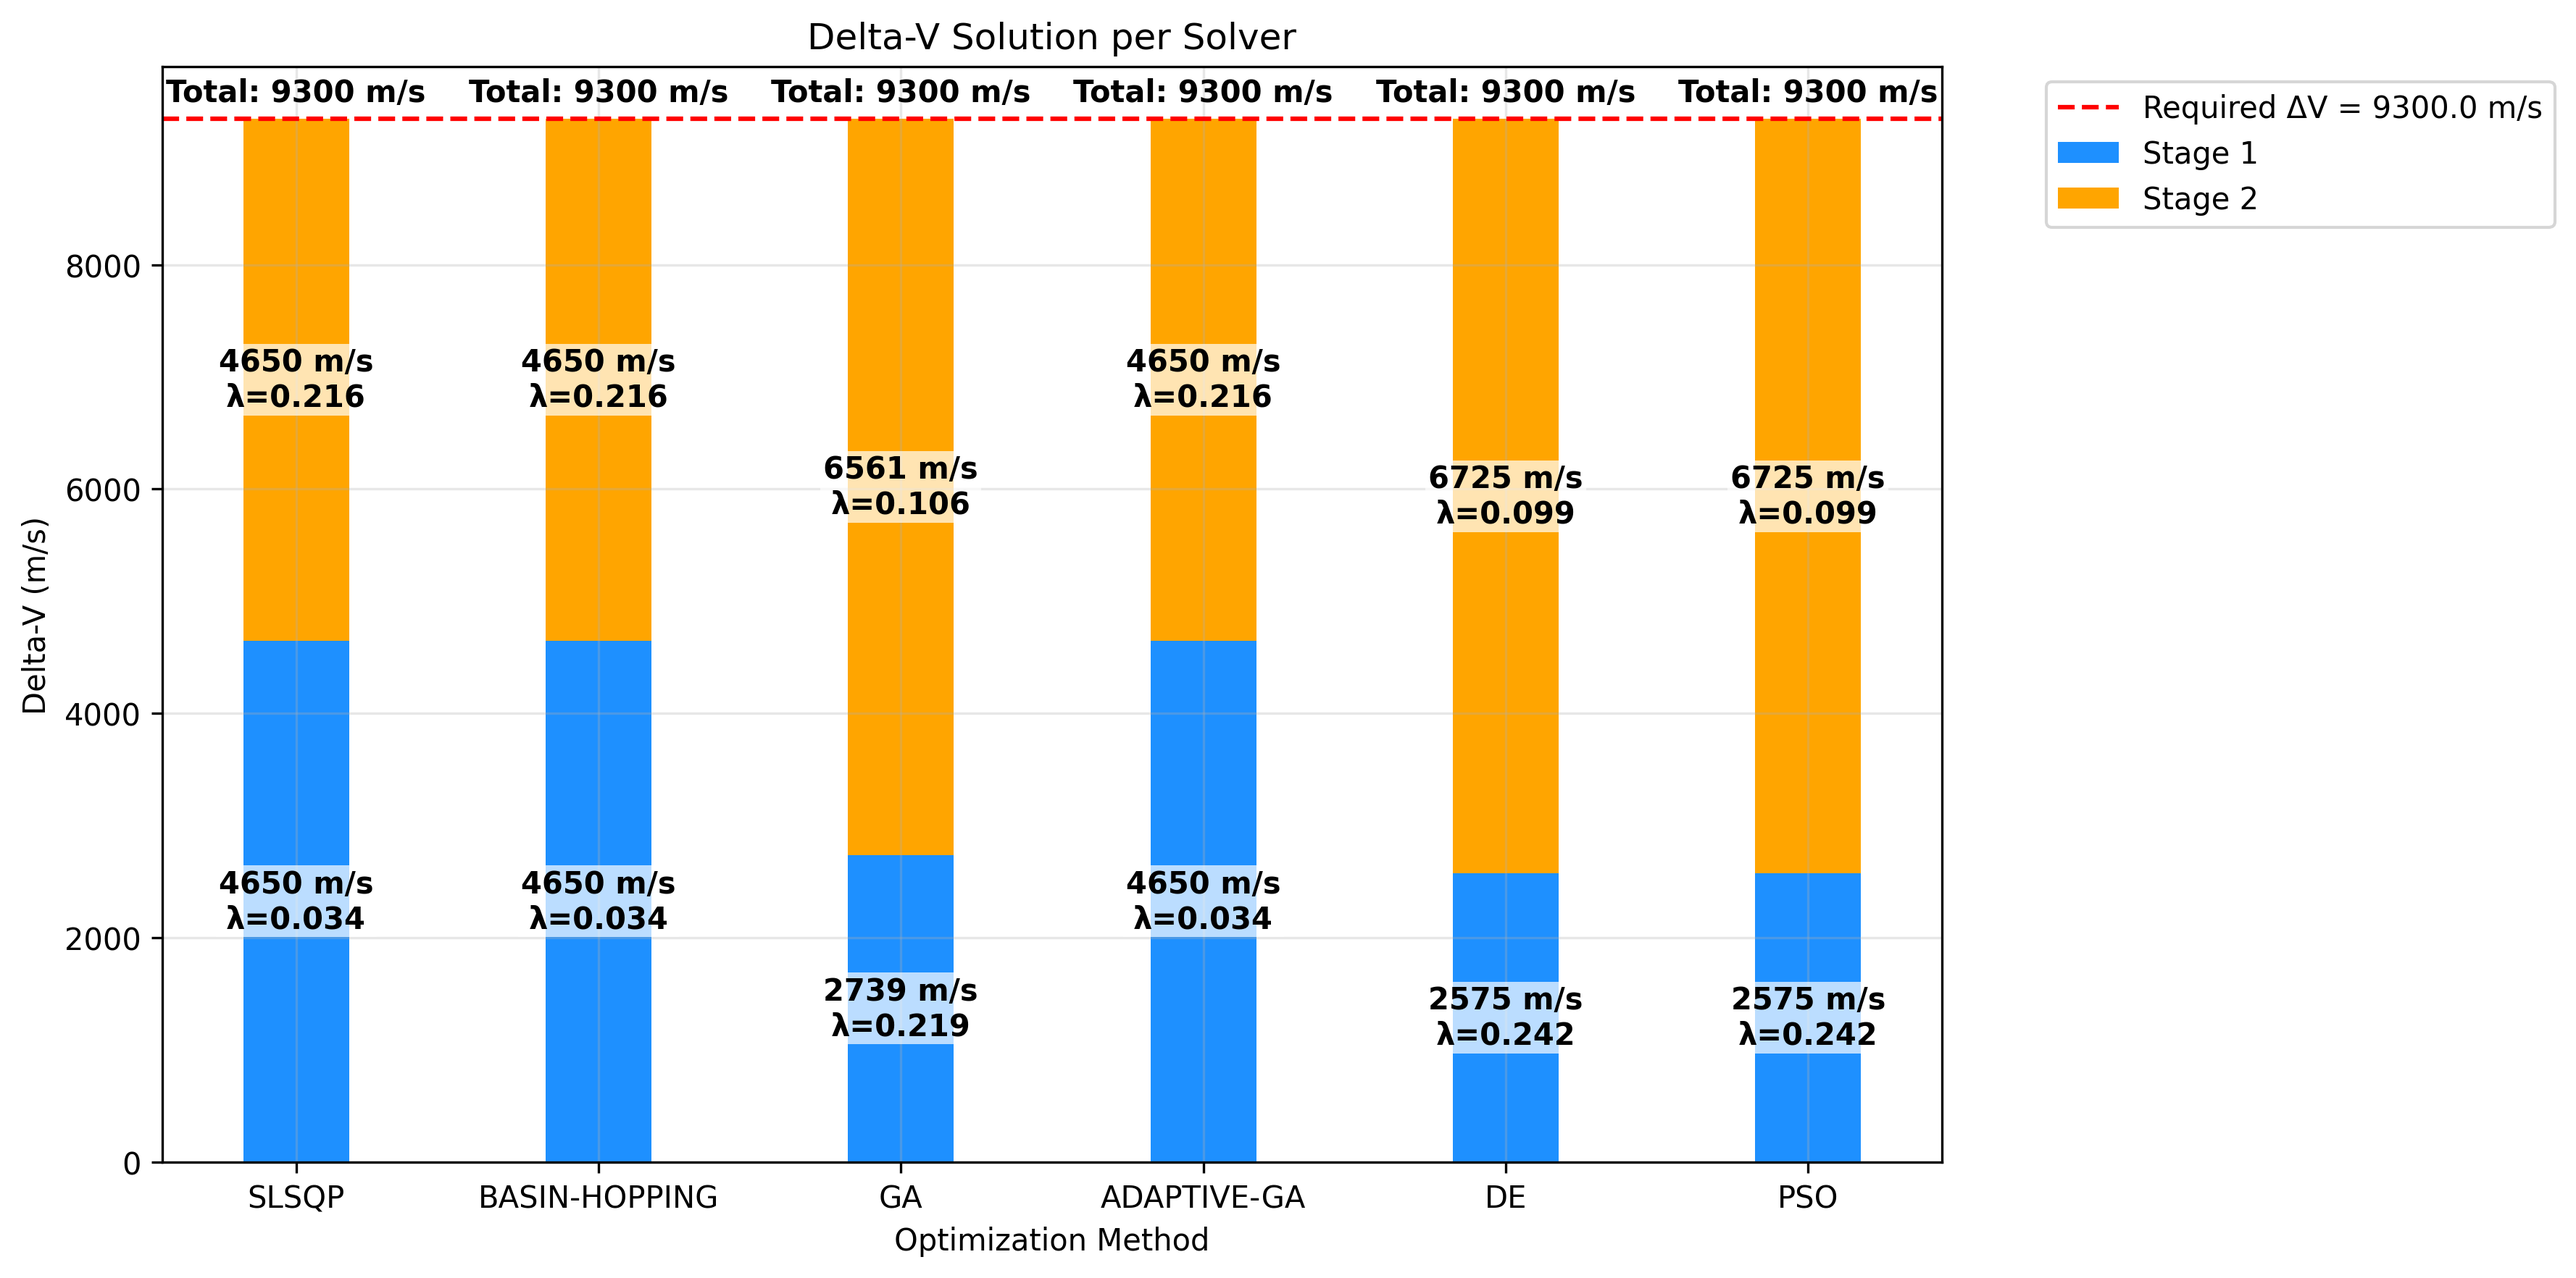
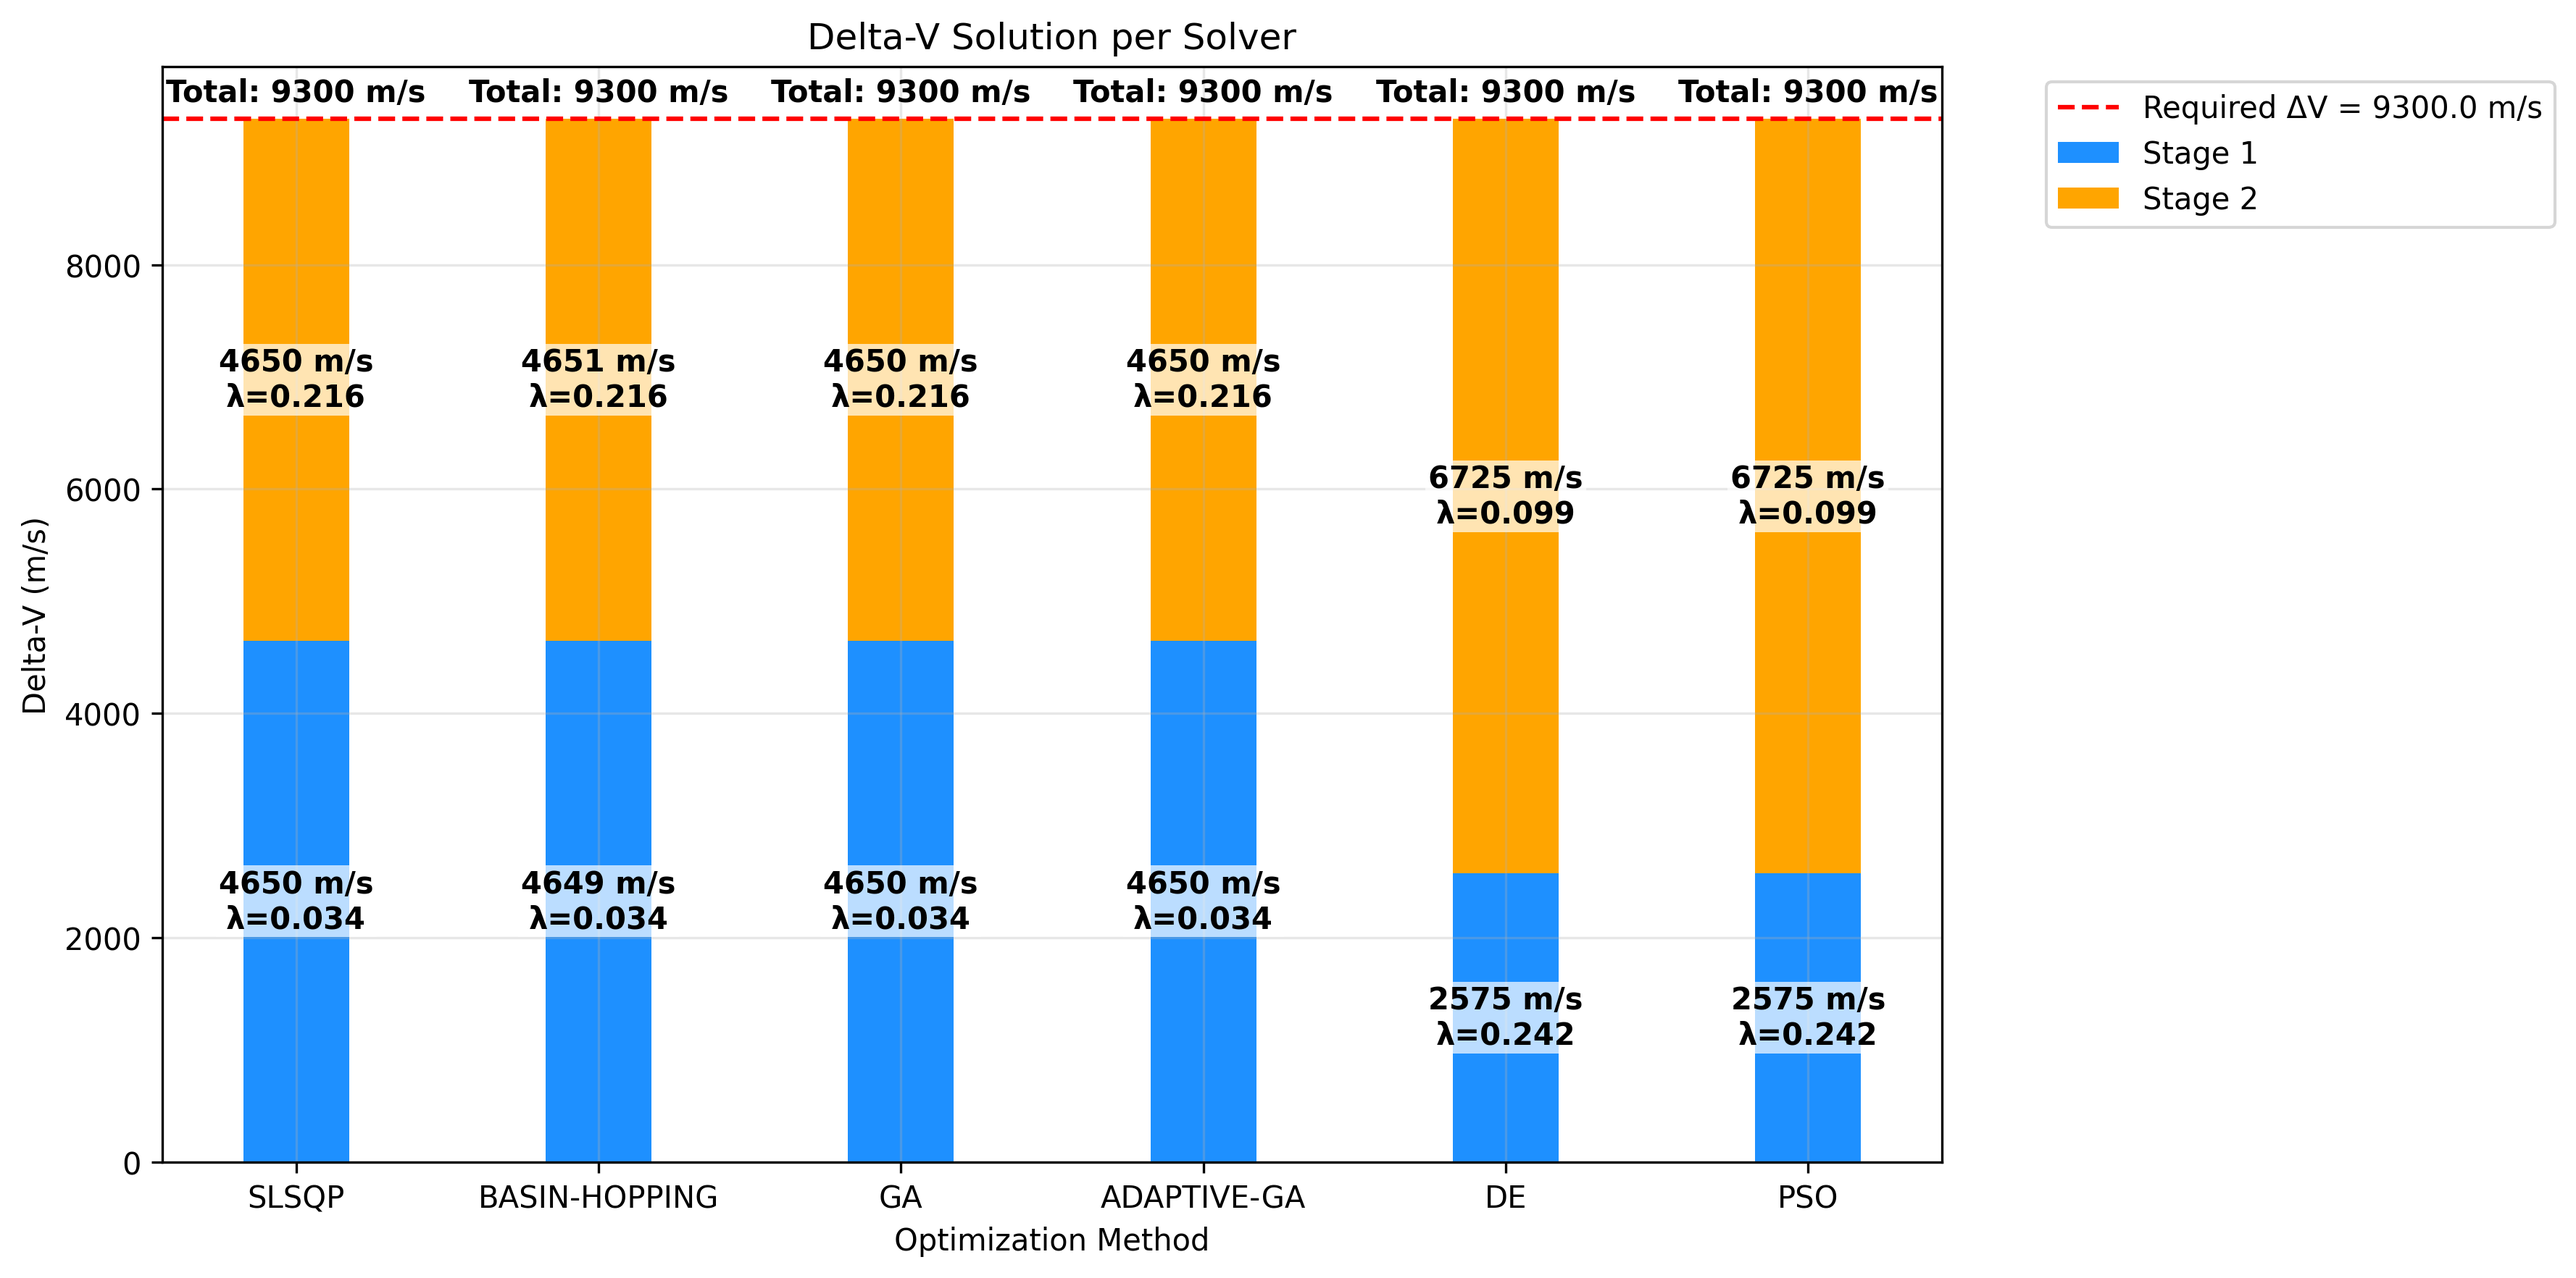
working

Changed region(s): [[0.3122, 0.4986, 0.3747, 0.8414], [0.3122, 0.2493, 0.3747, 0.4363], [0.2186, 0.6856, 0.2498, 0.7167]]

diff --git a/Stage_Opt/output/optimization_report.tex b/Stage_Opt/output/optimization_report.tex
@@ -6,7 +6,7 @@
 \usepackage{siunitx}
 \title{Rocket Stage Optimization Results}
 \author{Generated by Stage\_Opt}
-\date{\today}
+\date{February 23, 2025}
 
 \begin{document}
 \maketitle
@@ -15,32 +15,6 @@
 This report presents the results of optimizing a multi-stage rocket using various optimization methods. The objective was to minimize the payload mass fraction while satisfying the total delta-V requirement.
 
 \section{Input Assumptions}
-\subsection{Input Parameters}
-\begin{table}[H]
-\centering
-\caption{Input Parameters}
-\begin{tabular}{ll}
-\toprule
-Parameter & Value \\
-\midrule
-parameters & {'G0': 9.81, 'TOTAL_DELTA_V': 9300.0} \\
-stages & [{'stage': 1, 'G0': 9.81, 'ISP': 280, 'EPSILON': 0.15}, {'stage': 2, 'G0': 9.81, 'ISP': 348, 'EPSILON': 0.04}] \\
-\bottomrule
-\end{tabular}
-\end{table}
-
-\subsection{Stage Parameters}
-\begin{table}[H]
-\centering
-\caption{Stage Parameters and Assumptions}
-\begin{tabular}{cccc}
-\toprule
-Stage & ISP (s) & Mass Fraction ($\epsilon$) & Initial $\Delta V$ (m/s) \\
-\midrule
-\bottomrule
-\end{tabular}
-\end{table}
-
 \subsection{Global Parameters}
 \begin{table}[H]
 \centering
@@ -49,6 +23,22 @@ Stage & ISP (s) & Mass Fraction ($\epsilon$) & Initial $\Delta V$ (m/s) \\
 \toprule
 Parameter & {Value} \\
 \midrule
+Gravitational Acceleration ($G_0$) & \SI{9.81}{\meter\per\second\squared} \\
+Total $\Delta V$ Required & \SI{0.0}{\meter\per\second} \\
+\bottomrule
+\end{tabular}
+\end{table}
+
+\subsection{Stage Parameters}
+\begin{table}[H]
+\centering
+\caption{Stage Parameters and Assumptions}
+\begin{tabular}{cS[table-format=3.0]S[table-format=1.3]}
+\toprule
+Stage & {ISP (\si{\second})} & {Mass Fraction ($\epsilon$)} \\
+\midrule
+1 & 280 & 0.150 \\
+2 & 348 & 0.040 \\
 \bottomrule
 \end{tabular}
 \end{table}
@@ -88,19 +78,115 @@ The following optimization methods were evaluated:
 \begin{table}[H]
 \centering
 \caption{Optimization Results Summary}
-\begin{tabular}{lccr}
+\begin{tabular}{lS[table-format=1.4]S[table-format=1.4e-1]S[table-format=1.2]}
 \toprule
-Method & Payload Fraction & Error & Time (s) \\
+Method & {Payload Fraction} & {Error} & {Time (\si{\second})} \\
 \midrule
-SLSQP & 0.0073 & 0.0000e+00 & 0.00 \\
-BASIN-HOPPING & 0.0073 & 0.0000e+00 & 1.41 \\
-GA & 0.0151 & 0.0000e+00 & 3.25 \\
-ADAPTIVE-GA & 0.0073 & 0.0000e+00 & 0.01 \\
-DE & 0.0240 & 0.0000e+00 & 0.54 \\
-PSO & 0.0240 & 0.0000e+00 & 0.45 \\
+SLSQP        & 0.0073 & 0.0000e+00 & 0.00 \\
+BASIN-HOPPING & 0.0074 & 1.8190e-12 & 1.38 \\
+GA           & 0.0073 & 0.0000e+00 & 3.22 \\
+ADAPTIVE-GA  & 0.0073 & 0.0000e+00 & 0.01 \\
+DE           & 0.0240 & 0.0000e+00 & 0.51 \\
+PSO          & 0.0240 & 0.0000e+00 & 0.45 \\
 \bottomrule
 \end{tabular}
 \end{table}
 
 \subsection{Detailed Stage Results}
+
+\begin{table}[H]
+\centering
+\caption{SLSQP Stage Results}
+\begin{tabular}{cS[table-format=4.1]S[table-format=1.4]S[table-format=3.1]}
+\toprule
+Stage & {$\Delta V$ (\si{\meter\per\second})} & {Mass Ratio ($\lambda$)} & {Contribution (\%)} \\
+\midrule
+1 & 4650.0 & 0.0340 & 50.0 \\
+2 & 4650.0 & 0.2161 & 50.0 \\
+\midrule
+\multicolumn{2}{l}{Total $\Delta V$:} & \multicolumn{2}{r}{\SI{9300.0}{\meter\per\second}} \\
+\multicolumn{2}{l}{Payload Fraction:} & \multicolumn{2}{r}{0.0073} \\
+\bottomrule
+\end{tabular}
+\end{table}
+
+\begin{table}[H]
+\centering
+\caption{BASIN-HOPPING Stage Results}
+\begin{tabular}{cS[table-format=4.1]S[table-format=1.4]S[table-format=3.1]}
+\toprule
+Stage & {$\Delta V$ (\si{\meter\per\second})} & {Mass Ratio ($\lambda$)} & {Contribution (\%)} \\
+\midrule
+1 & 4649.2 & 0.0340 & 50.0 \\
+2 & 4650.8 & 0.2161 & 50.0 \\
+\midrule
+\multicolumn{2}{l}{Total $\Delta V$:} & \multicolumn{2}{r}{\SI{9300.0}{\meter\per\second}} \\
+\multicolumn{2}{l}{Payload Fraction:} & \multicolumn{2}{r}{0.0074} \\
+\bottomrule
+\end{tabular}
+\end{table}
+
+\begin{table}[H]
+\centering
+\caption{GA Stage Results}
+\begin{tabular}{cS[table-format=4.1]S[table-format=1.4]S[table-format=3.1]}
+\toprule
+Stage & {$\Delta V$ (\si{\meter\per\second})} & {Mass Ratio ($\lambda$)} & {Contribution (\%)} \\
+\midrule
+1 & 4650.0 & 0.0340 & 50.0 \\
+2 & 4650.0 & 0.2161 & 50.0 \\
+\midrule
+\multicolumn{2}{l}{Total $\Delta V$:} & \multicolumn{2}{r}{\SI{9300.0}{\meter\per\second}} \\
+\multicolumn{2}{l}{Payload Fraction:} & \multicolumn{2}{r}{0.0073} \\
+\bottomrule
+\end{tabular}
+\end{table}
+
+\begin{table}[H]
+\centering
+\caption{ADAPTIVE-GA Stage Results}
+\begin{tabular}{cS[table-format=4.1]S[table-format=1.4]S[table-format=3.1]}
+\toprule
+Stage & {$\Delta V$ (\si{\meter\per\second})} & {Mass Ratio ($\lambda$)} & {Contribution (\%)} \\
+\midrule
+1 & 4650.0 & 0.0340 & 50.0 \\
+2 & 4650.0 & 0.2161 & 50.0 \\
+\midrule
+\multicolumn{2}{l}{Total $\Delta V$:} & \multicolumn{2}{r}{\SI{9300.0}{\meter\per\second}} \\
+\multicolumn{2}{l}{Payload Fraction:} & \multicolumn{2}{r}{0.0073} \\
+\bottomrule
+\end{tabular}
+\end{table}
+
+\begin{table}[H]
+\centering
+\caption{DE Stage Results}
+\begin{tabular}{cS[table-format=4.1]S[table-format=1.4]S[table-format=3.1]}
+\toprule
+Stage & {$\Delta V$ (\si{\meter\per\second})} & {Mass Ratio ($\lambda$)} & {Contribution (\%)} \\
+\midrule
+1 & 2575.0 & 0.2416 & 27.7 \\
+2 & 6725.0 & 0.0995 & 72.3 \\
+\midrule
+\multicolumn{2}{l}{Total $\Delta V$:} & \multicolumn{2}{r}{\SI{9300.0}{\meter\per\second}} \\
+\multicolumn{2}{l}{Payload Fraction:} & \multicolumn{2}{r}{0.0240} \\
+\bottomrule
+\end{tabular}
+\end{table}
+
+\begin{table}[H]
+\centering
+\caption{PSO Stage Results}
+\begin{tabular}{cS[table-format=4.1]S[table-format=1.4]S[table-format=3.1]}
+\toprule
+Stage & {$\Delta V$ (\si{\meter\per\second})} & {Mass Ratio ($\lambda$)} & {Contribution (\%)} \\
+\midrule
+1 & 2575.0 & 0.2416 & 27.7 \\
+2 & 6725.0 & 0.0995 & 72.3 \\
+\midrule
+\multicolumn{2}{l}{Total $\Delta V$:} & \multicolumn{2}{r}{\SI{9300.0}{\meter\per\second}} \\
+\multicolumn{2}{l}{Payload Fraction:} & \multicolumn{2}{r}{0.0240} \\
+\bottomrule
+\end{tabular}
+\end{table}
 \end{document}

diff --git a/Stage_Opt/src/reporting/latex.py b/Stage_Opt/src/reporting/latex.py
@@ -12,7 +12,7 @@ def generate_report(results, stages, output_dir=OUTPUT_DIR):
             return None
             
         # Filter out failed optimizations
-        valid_results = {k: v for k, v in results.items() if v is not None and 'optimal_dv' in v and 'stage_ratios' in v}
+        valid_results = {k: v for k, v in results.items() if v is not None and 'dv' in v and 'stage_ratios' in v}
         if not valid_results:
             logger.error("No valid optimization results for report")
             return None
@@ -145,8 +145,8 @@ Method & {Payload Fraction} & {Error} & {Time (\si{\second})} \\
 Stage & {{$\\Delta V$ (\\si{{\\meter\\per\\second}})}} & {{Mass Ratio ($\\lambda$)}} & {{Contribution (\\%)}} \\\\
 \\midrule
 """
-            total_dv = sum(result['optimal_dv'])
-            for i, (dv, ratio) in enumerate(zip(result['optimal_dv'], result['stage_ratios'])):
+            total_dv = sum(result['dv'])
+            for i, (dv, ratio) in enumerate(zip(result['dv'], result['stage_ratios'])):
                 contribution = (dv / total_dv * 100) if total_dv > 0 else 0
                 report_content += f"{i+1} & {dv:.1f} & {ratio:.4f} & {contribution:.1f} \\\\\n"
             
